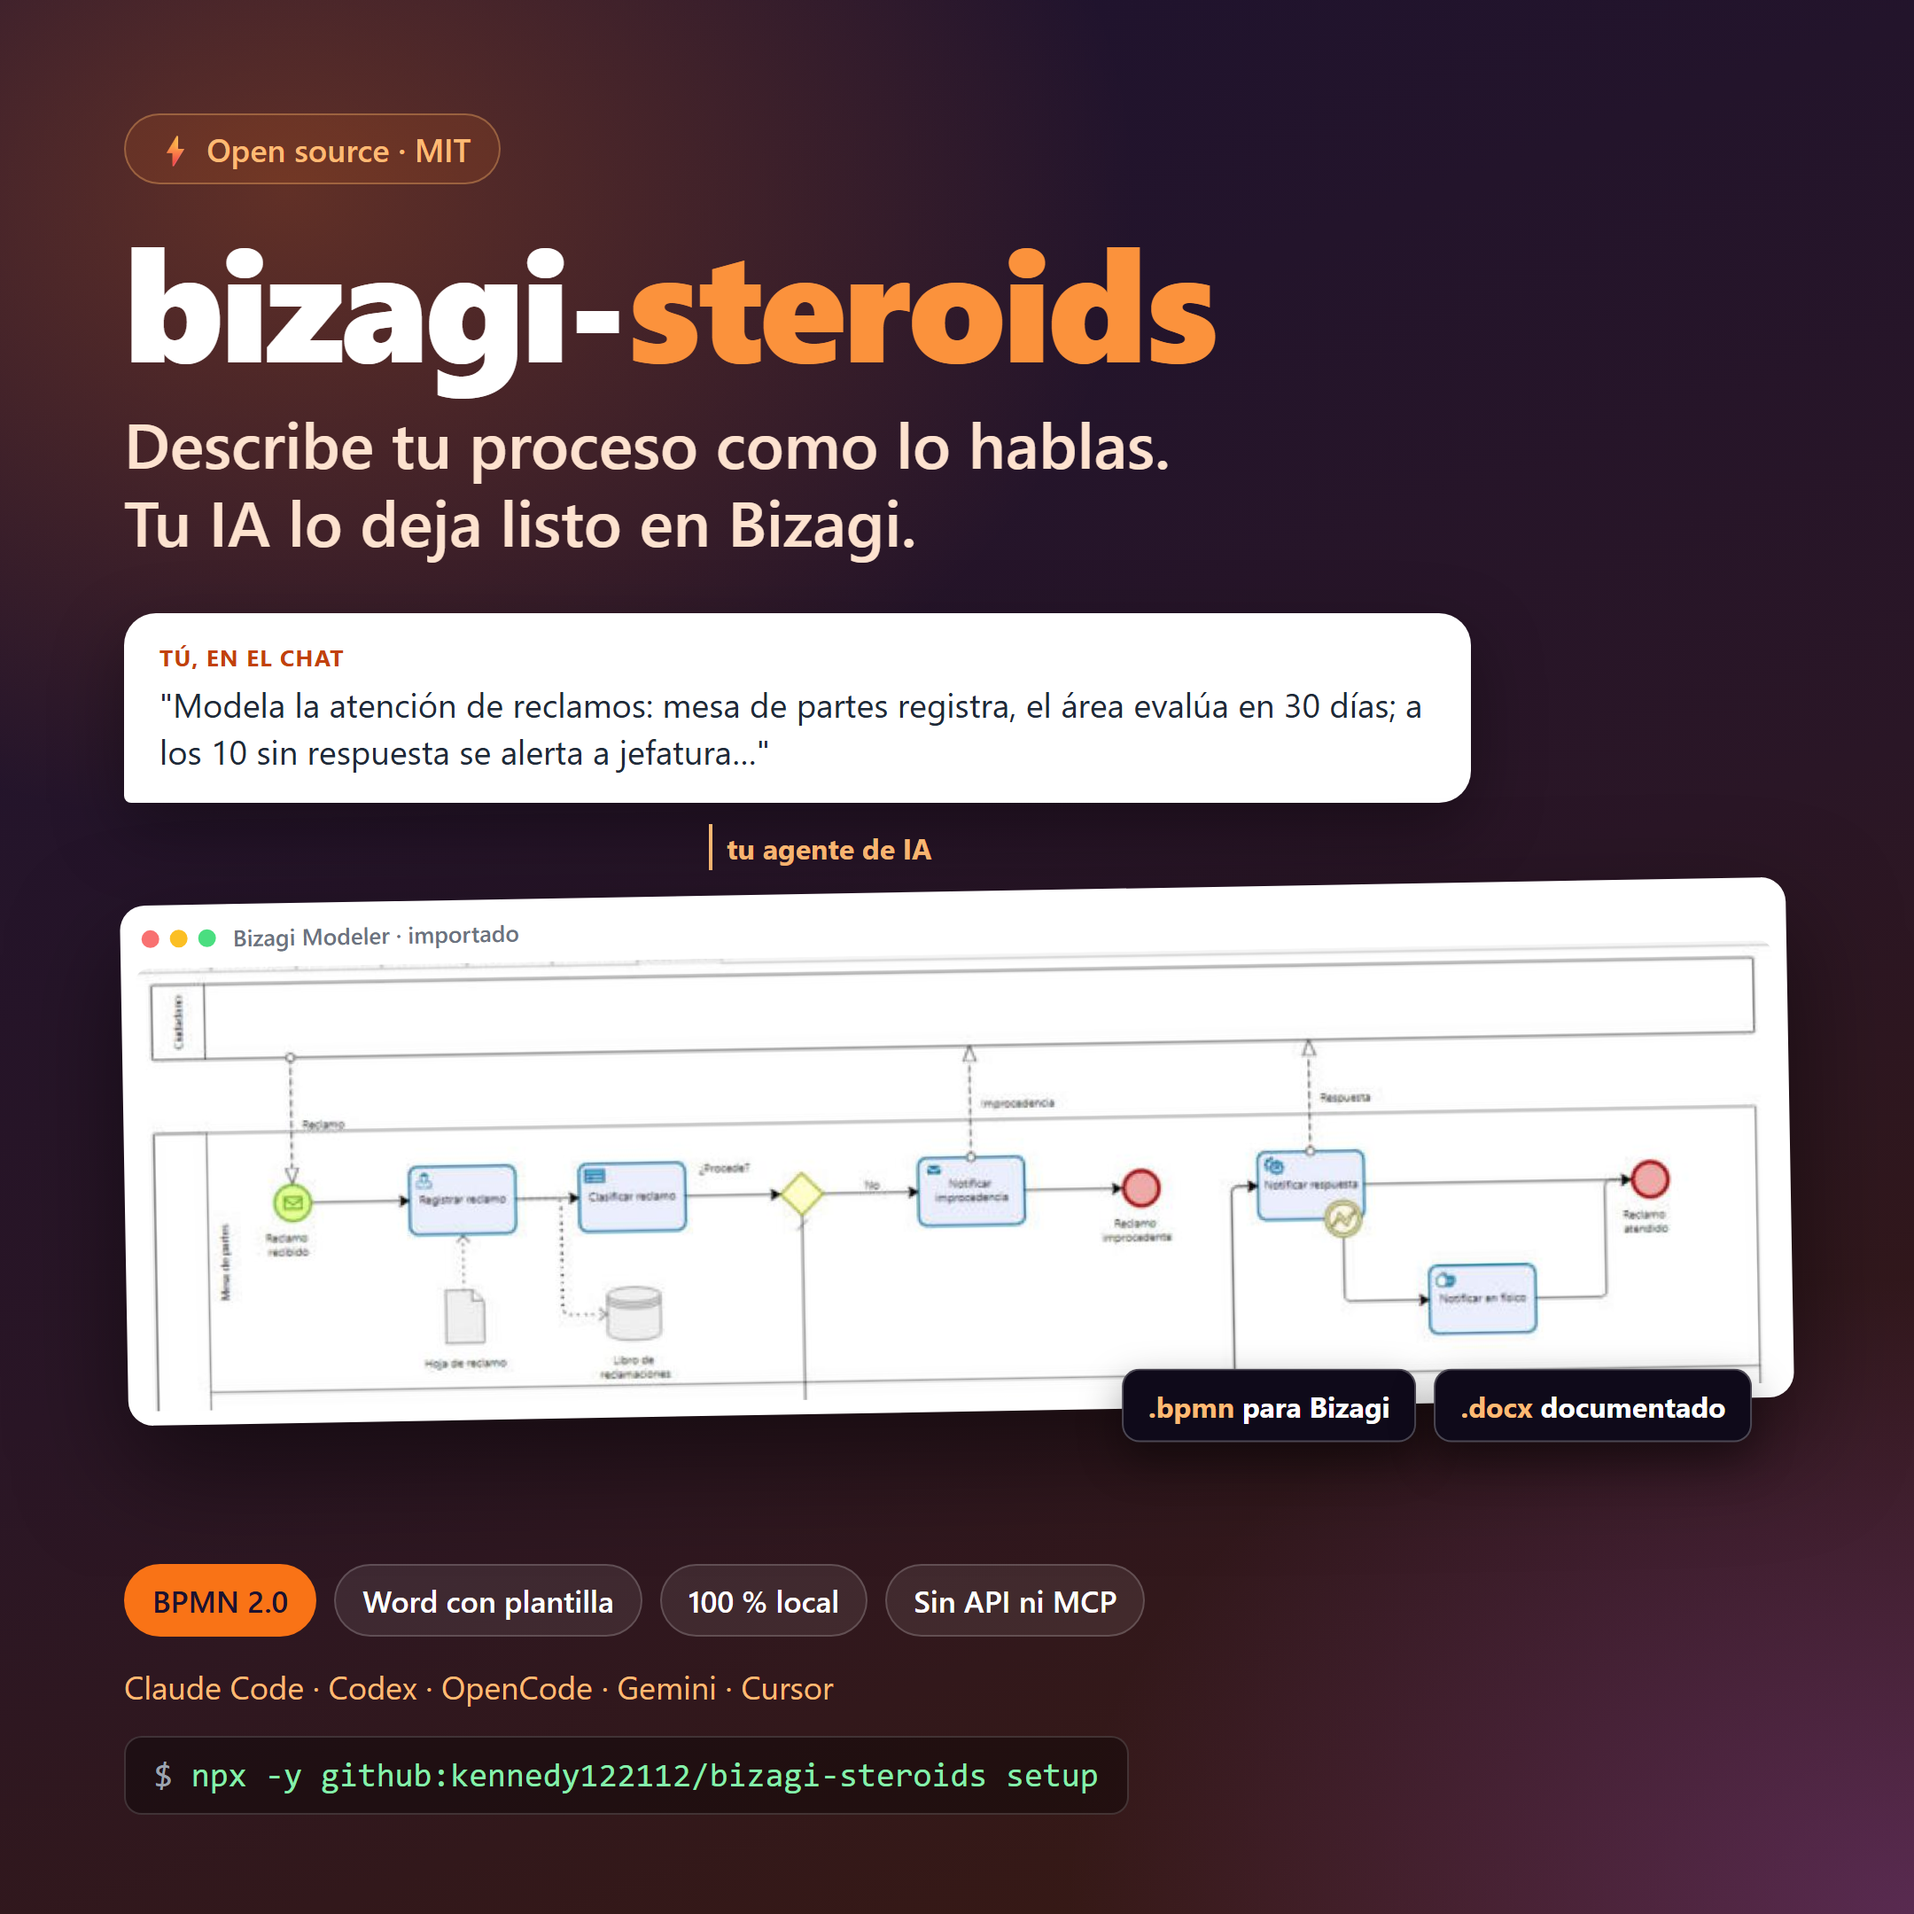
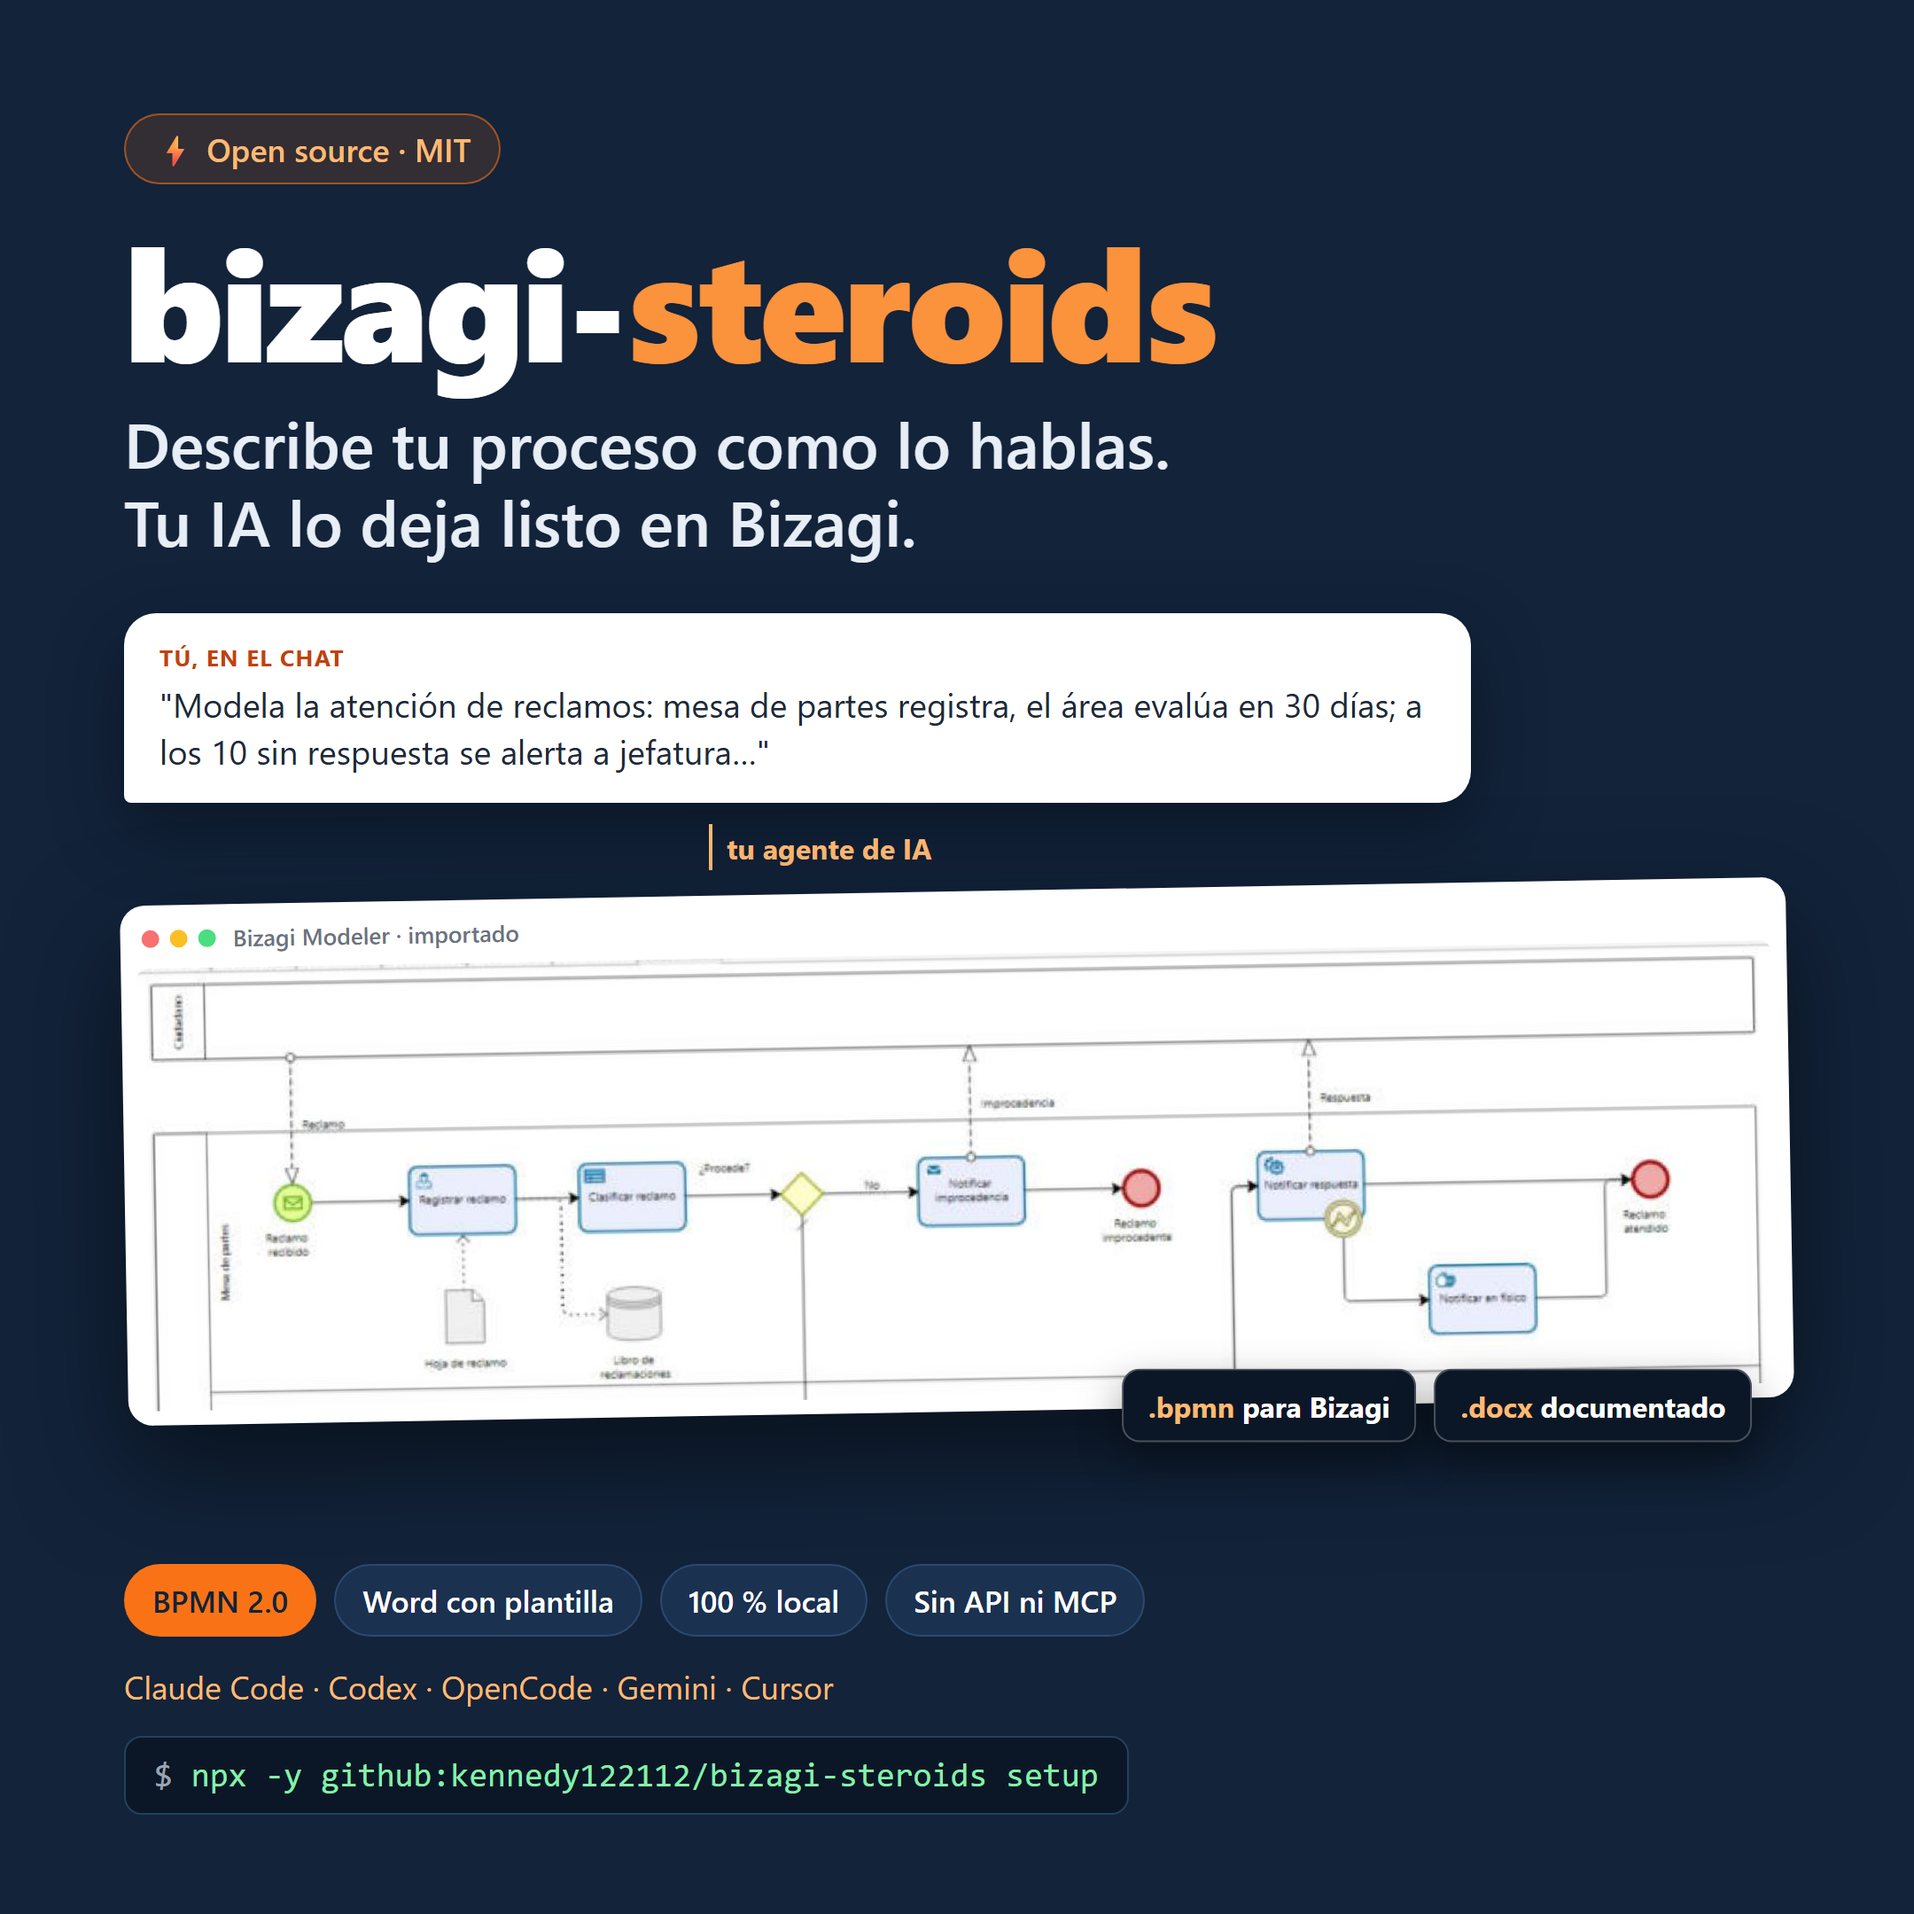
Imágenes de LinkedIn con fondo sólido (azul marino complementario del naranja)

diff --git a/docs/social/linkedin.html b/docs/social/linkedin.html
@@ -6,26 +6,24 @@
 <style>
   * { box-sizing: border-box; margin: 0; padding: 0; }
   body { width: 1200px; height: 627px; overflow: hidden; font-family: "Segoe UI", Helvetica, Arial, sans-serif;
-         background: #1c1230; color: #fff; }
+         background: #12233A; color: #fff; }
   .card { position: relative; width: 1200px; height: 627px; overflow: hidden;
-          background: radial-gradient(900px 520px at 18% 18%, rgba(249,115,22,.30), transparent 60%),
-                      radial-gradient(700px 500px at 95% 110%, rgba(168,85,247,.28), transparent 60%),
-                      linear-gradient(135deg, #1c1230 0%, #2a1626 55%, #3a1a10 100%); }
+          background: #12233A; }
   .left { position: absolute; left: 64px; top: 56px; width: 520px; }
   .kicker { display: inline-flex; align-items: center; gap: 8px; font-size: 15px; font-weight: 600; letter-spacing: .4px;
-            color: #fdba74; background: rgba(249,115,22,.12); border: 1px solid rgba(253,186,116,.35);
+            color: #fdba74; background: rgba(249,115,22,.14); border: 1px solid rgba(249,115,22,.55);
             padding: 6px 14px; border-radius: 999px; }
   h1 { font-size: 66px; font-weight: 800; letter-spacing: -1.5px; line-height: 1; margin: 22px 0 14px; }
   h1 span { color: #fb923c; }
-  .tag { font-size: 27px; line-height: 1.25; color: #fde2cf; font-weight: 600; }
-  .sub { margin-top: 14px; font-size: 18px; line-height: 1.45; color: #e7cfc4; }
+  .tag { font-size: 27px; line-height: 1.25; color: #E8EEF6; font-weight: 600; }
+  .sub { margin-top: 14px; font-size: 18px; line-height: 1.45; color: #B9C7D8; }
   .chips { display: flex; flex-wrap: wrap; gap: 8px; margin-top: 22px; }
-  .chip { font-size: 14px; font-weight: 600; padding: 7px 13px; border-radius: 999px; background: rgba(255,255,255,.08);
-          border: 1px solid rgba(255,255,255,.18); color: #f5f5f5; }
-  .chip.hot { background: #f97316; border-color: #f97316; color: #1c1230; }
+  .chip { font-size: 14px; font-weight: 600; padding: 7px 13px; border-radius: 999px; background: #1B3150;
+          border: 1px solid #2C4A6E; color: #f5f5f5; }
+  .chip.hot { background: #f97316; border-color: #f97316; color: #12233A; }
   .agents { margin-top: 18px; font-size: 15px; color: #fdba74; }
   .cmd { position: absolute; left: 64px; bottom: 44px; font-family: Consolas, "Cascadia Mono", monospace; font-size: 15.5px;
-         background: rgba(0,0,0,.35); border: 1px solid rgba(255,255,255,.15); border-radius: 10px; padding: 10px 14px;
+         background: #0B1726; border: 1px solid #24405F; border-radius: 10px; padding: 10px 14px;
          color: #86efac; }
   .cmd b { color: #9ca3af; font-weight: 400; }
   .right { position: absolute; right: 44px; top: 50px; width: 548px; }
@@ -42,10 +40,10 @@
   .shot .bar { display: flex; align-items: center; gap: 6px; padding: 2px 4px 8px; font-size: 12px; font-weight: 600; color: #6b7280; }
   .dot { width: 9px; height: 9px; border-radius: 50%; display: inline-block; }
   .files { position: absolute; right: 30px; bottom: -20px; display: flex; gap: 8px; transform: rotate(1.2deg); }
-  .file { background: #0f0a1a; border: 1px solid rgba(255,255,255,.25); color: #fff; font-size: 13px; font-weight: 700;
+  .file { background: #0B1726; border: 1px solid rgba(255,255,255,.25); color: #fff; font-size: 13px; font-weight: 700;
           padding: 8px 12px; border-radius: 9px; box-shadow: 0 10px 24px rgba(0,0,0,.4); }
   .file i { font-style: normal; color: #fdba74; }
-  .gh { position: absolute; right: 44px; bottom: 26px; font-size: 14px; color: #e7cfc4; }
+  .gh { position: absolute; right: 44px; bottom: 26px; font-size: 14px; color: #B9C7D8; }
 </style>
 </head>
 <body>

diff --git a/docs/social/linkedin-cuadrado.html b/docs/social/linkedin-cuadrado.html
@@ -6,16 +6,14 @@
 <style>
   * { box-sizing: border-box; margin: 0; padding: 0; }
   body { width: 1080px; height: 1080px; overflow: hidden; font-family: "Segoe UI", Helvetica, Arial, sans-serif;
-         background: #1c1230; color: #fff; }
+         background: #12233A; color: #fff; }
   .card { position: relative; width: 1080px; height: 1080px; overflow: hidden; padding: 64px 70px;
-          background: radial-gradient(800px 600px at 15% 10%, rgba(249,115,22,.30), transparent 60%),
-                      radial-gradient(800px 600px at 100% 100%, rgba(168,85,247,.28), transparent 60%),
-                      linear-gradient(160deg, #1c1230 0%, #2a1626 55%, #3a1a10 100%); }
+          background: #12233A; }
   .kicker { display: inline-flex; align-items: center; gap: 8px; font-size: 18px; font-weight: 600; color: #fdba74;
-            background: rgba(249,115,22,.12); border: 1px solid rgba(253,186,116,.35); padding: 7px 16px; border-radius: 999px; }
+            background: rgba(249,115,22,.14); border: 1px solid rgba(249,115,22,.55); padding: 7px 16px; border-radius: 999px; }
   h1 { font-size: 88px; font-weight: 800; letter-spacing: -2px; line-height: 1; margin: 20px 0 16px; }
   h1 span { color: #fb923c; }
-  .tag { font-size: 36px; line-height: 1.22; color: #fde2cf; font-weight: 600; }
+  .tag { font-size: 36px; line-height: 1.22; color: #E8EEF6; font-weight: 600; }
   .bubble { margin-top: 30px; width: 760px; background: #fff; color: #1f2937; border-radius: 18px 18px 18px 4px;
             padding: 16px 20px; font-size: 19px; line-height: 1.4; box-shadow: 0 14px 40px rgba(0,0,0,.35); }
   .bubble .who { font-size: 13px; font-weight: 700; color: #c2410c; margin-bottom: 4px; text-transform: uppercase; letter-spacing: .6px; }
@@ -27,17 +25,17 @@
   .bar { display: flex; align-items: center; gap: 6px; padding: 2px 4px 8px; font-size: 13px; font-weight: 600; color: #6b7280; }
   .dot { width: 10px; height: 10px; border-radius: 50%; display: inline-block; }
   .files { position: absolute; right: 24px; bottom: -22px; display: flex; gap: 10px; transform: rotate(1deg); }
-  .file { background: #0f0a1a; border: 1px solid rgba(255,255,255,.25); color: #fff; font-size: 16px; font-weight: 700;
+  .file { background: #0B1726; border: 1px solid rgba(255,255,255,.25); color: #fff; font-size: 16px; font-weight: 700;
           padding: 9px 14px; border-radius: 10px; box-shadow: 0 10px 24px rgba(0,0,0,.4); }
   .file i { font-style: normal; color: #fdba74; }
   .foot { position: absolute; left: 70px; right: 70px; bottom: 56px; }
   .chips { display: flex; flex-wrap: wrap; gap: 10px; }
-  .chip { font-size: 17px; font-weight: 600; padding: 8px 15px; border-radius: 999px; background: rgba(255,255,255,.08);
-          border: 1px solid rgba(255,255,255,.18); }
-  .chip.hot { background: #f97316; border-color: #f97316; color: #1c1230; }
+  .chip { font-size: 17px; font-weight: 600; padding: 8px 15px; border-radius: 999px; background: #1B3150;
+          border: 1px solid #2C4A6E; }
+  .chip.hot { background: #f97316; border-color: #f97316; color: #12233A; }
   .agents { margin-top: 16px; font-size: 18px; color: #fdba74; }
   .cmd { margin-top: 16px; display: inline-block; font-family: Consolas, "Cascadia Mono", monospace; font-size: 19px;
-         background: rgba(0,0,0,.35); border: 1px solid rgba(255,255,255,.15); border-radius: 10px; padding: 10px 16px; color: #86efac; }
+         background: #0B1726; border: 1px solid #24405F; border-radius: 10px; padding: 10px 16px; color: #86efac; }
   .cmd b { color: #9ca3af; font-weight: 400; }
 </style>
 </head>
